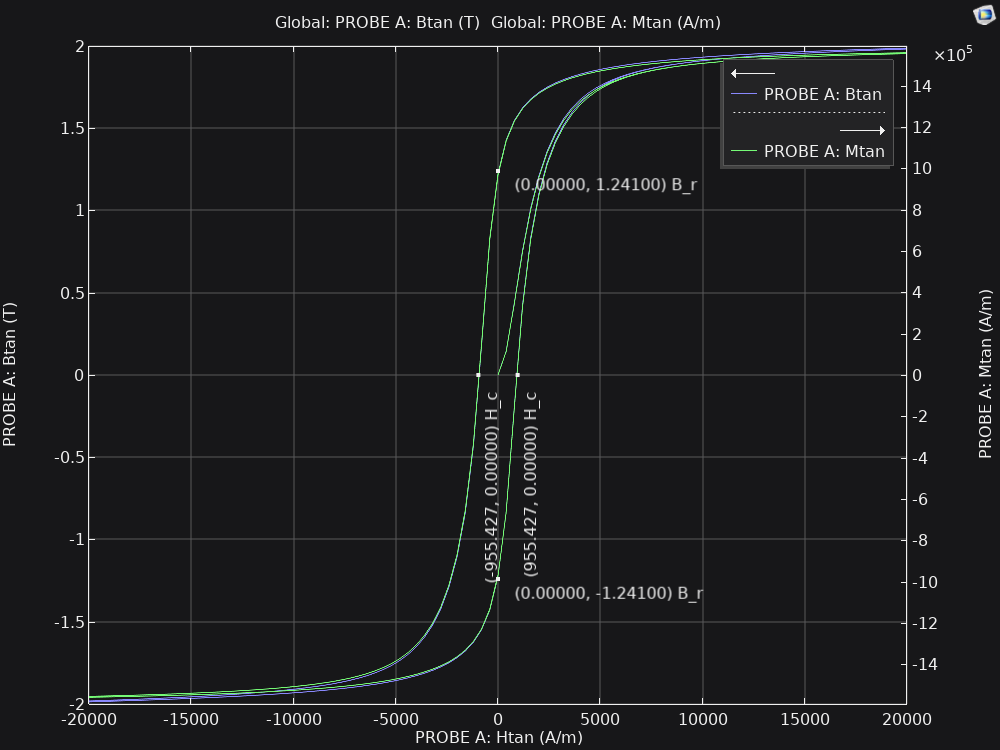
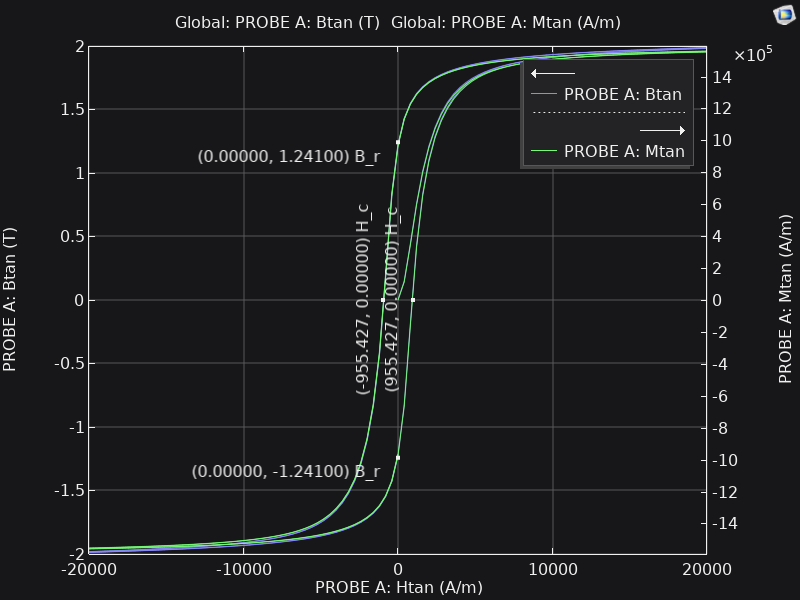
Update the outputs

diff --git a/README.md b/README.md
@@ -62,4 +62,4 @@ jafit c_r=0.1 M_s=1.6e6 a=560 k_p=1200 alpha=0.0007
 
 Note the predicted $H_c$, $B_r$, and $BH_\text{max}$ and compare them against the values seen in the COMSOL model.
 
-<img src="validation/H(t),M(t),B(t).png" alt=""><img src="validation/hysteresis.png" alt="">
+<img src="validation/H(t),M(t),B(t).png" width="400px" alt=""><img src="validation/hysteresis.png" width="400px" alt="">
